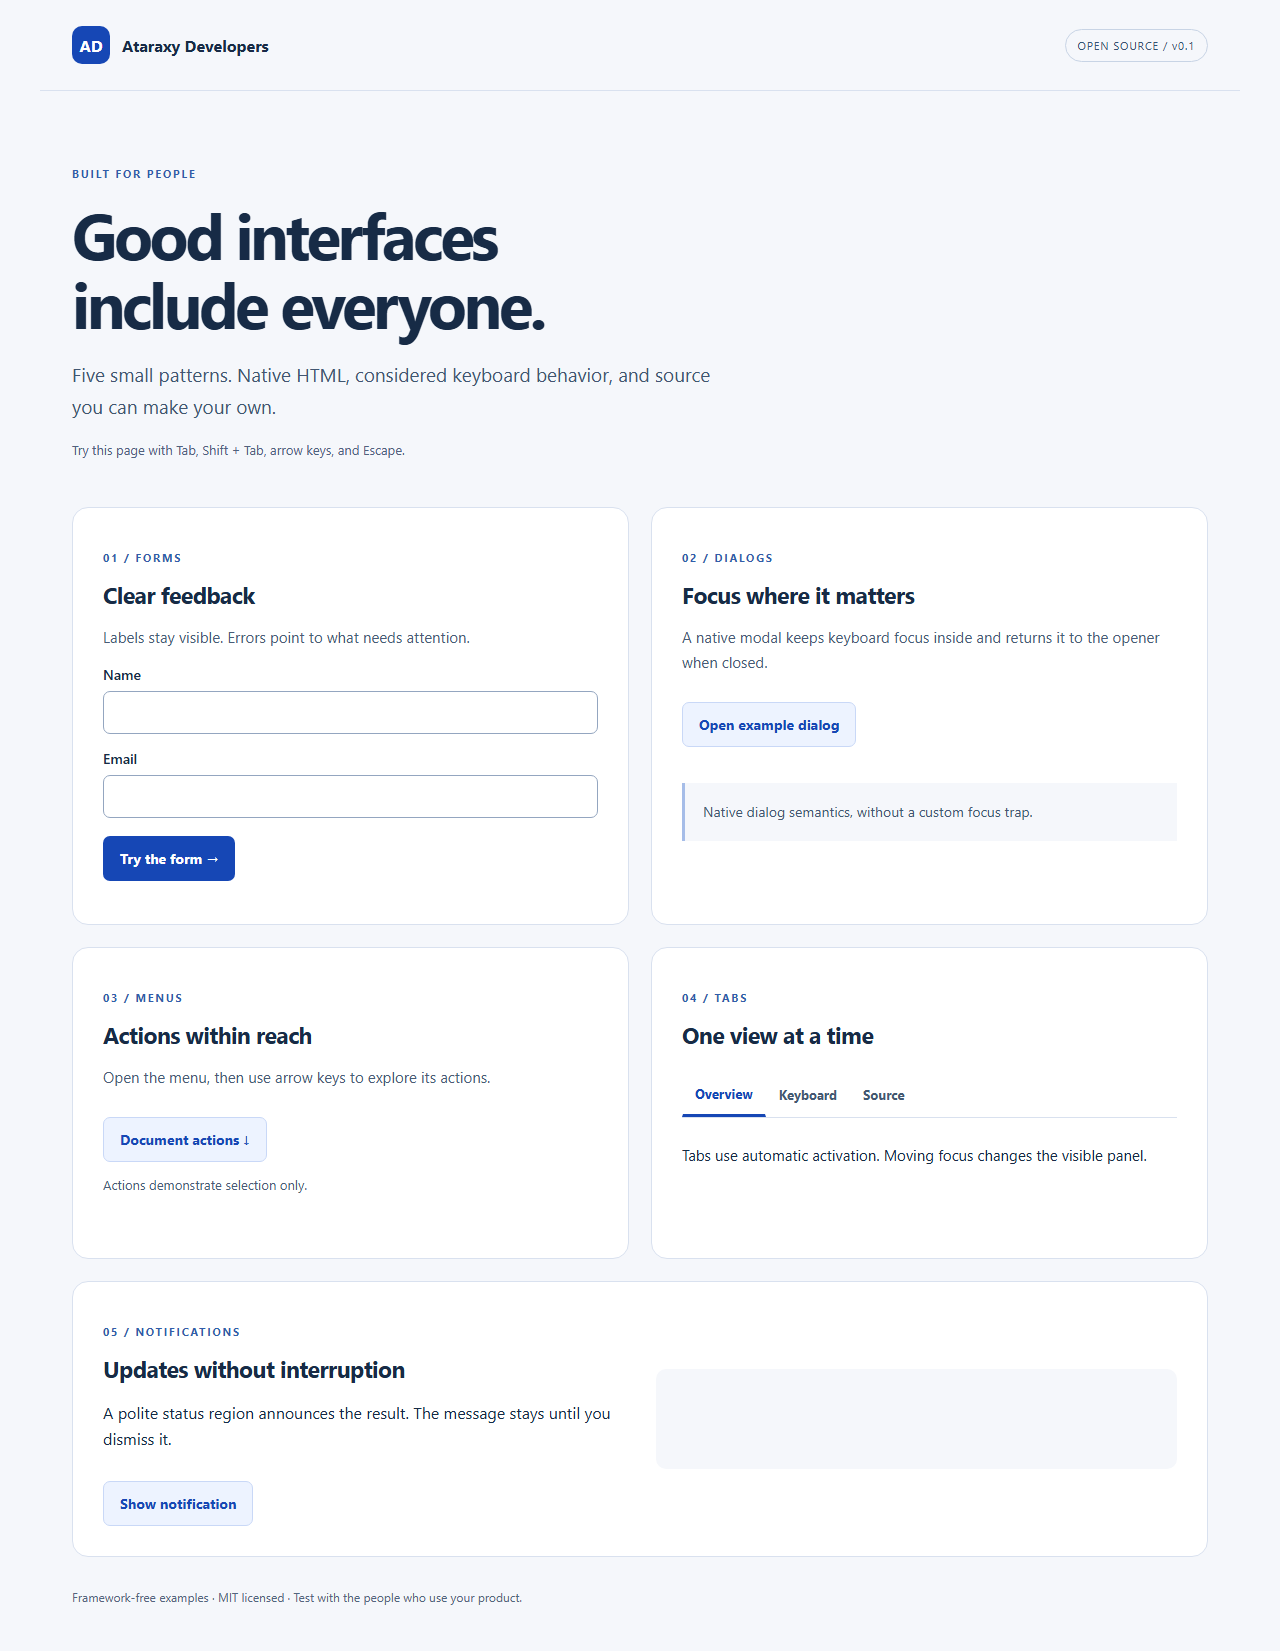
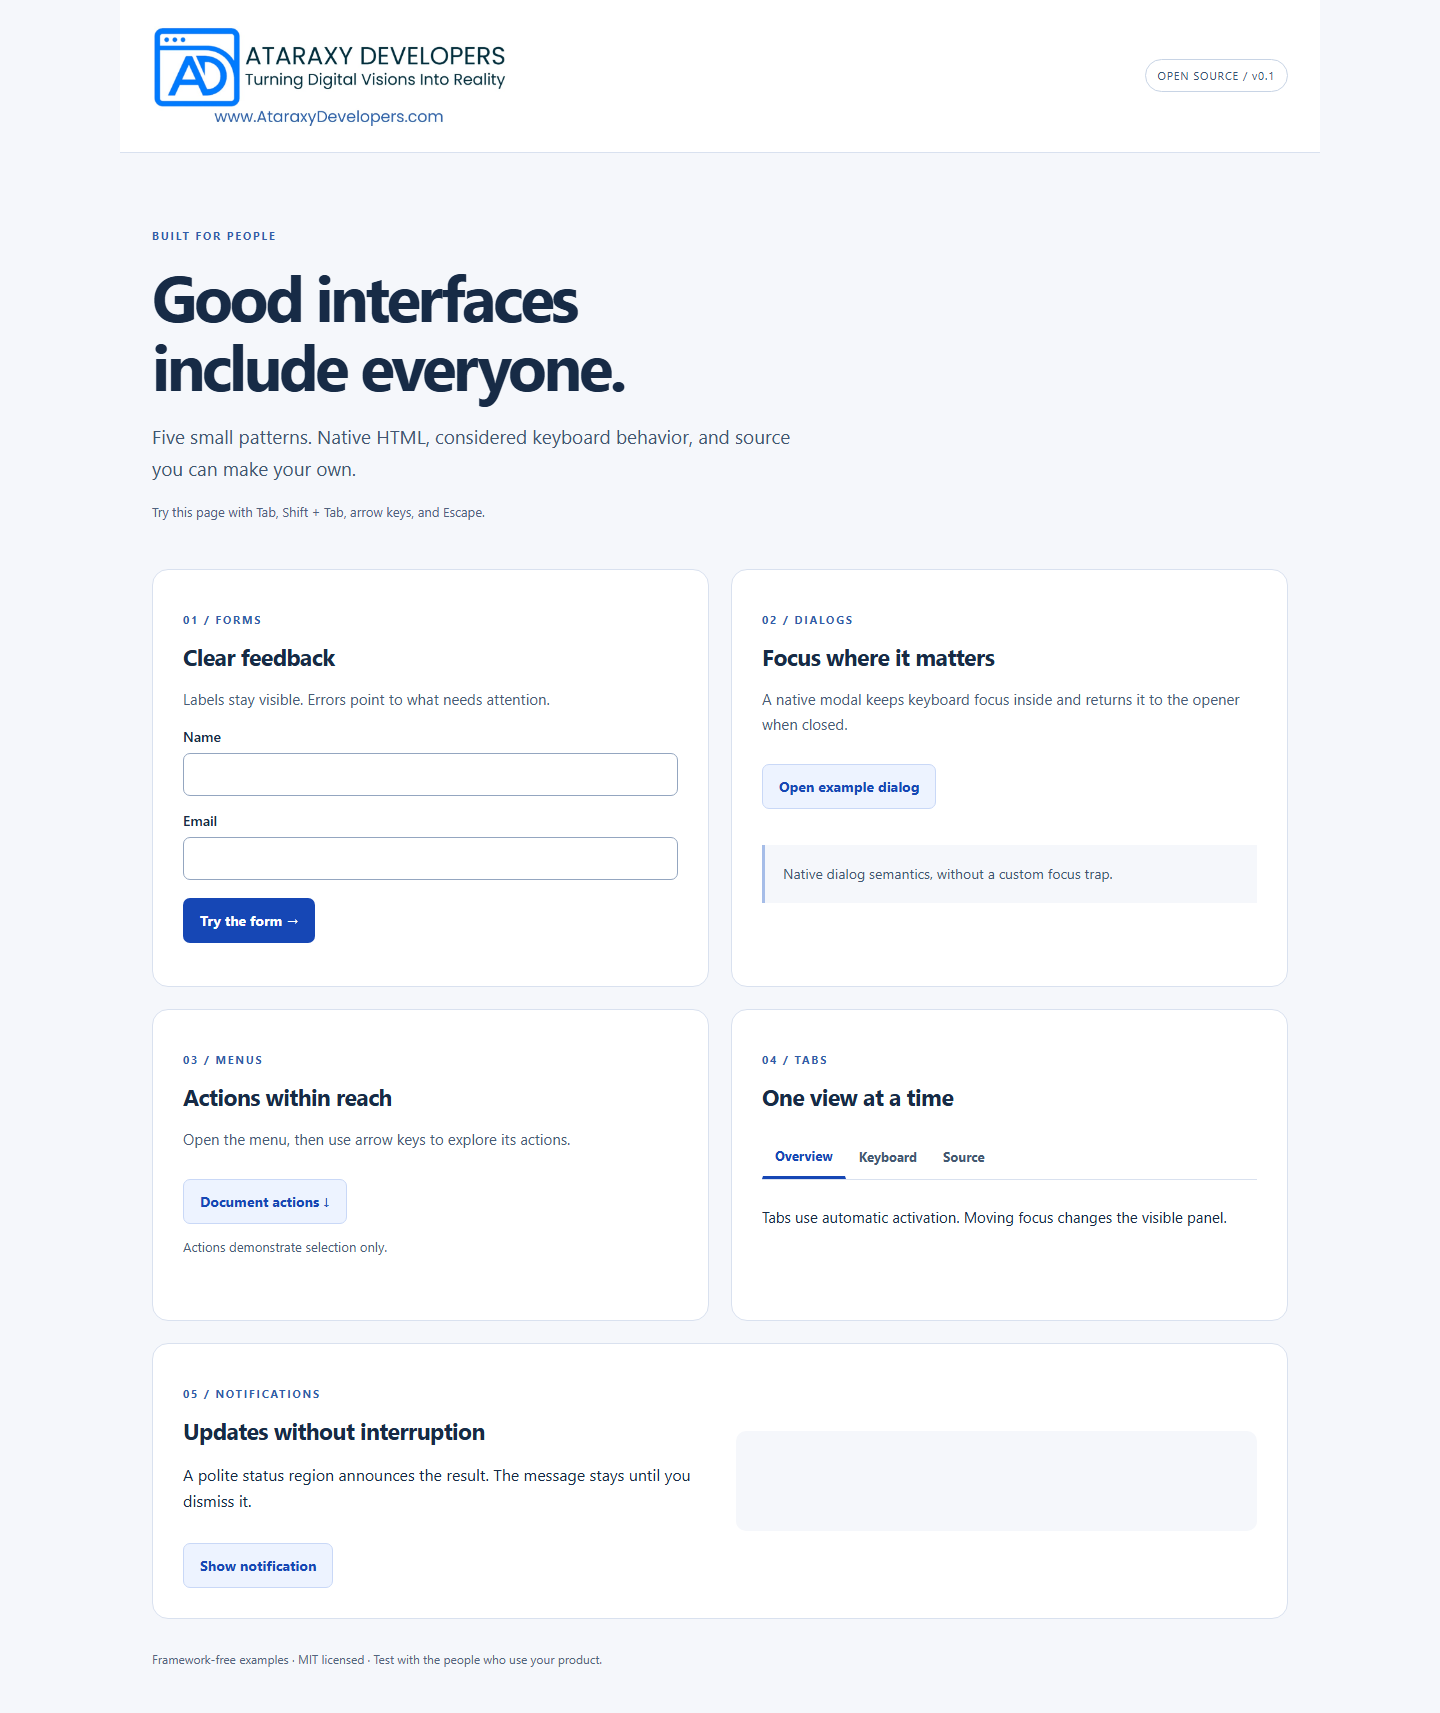
Use approved Ataraxy Developers branding

diff --git a/public/index.html b/public/index.html
@@ -4,14 +4,14 @@
     <meta charset="utf-8" />
     <meta name="viewport" content="width=device-width,initial-scale=1" />
     <title>Accessible UI Recipes · Ataraxy Developers</title>
+    <link rel="icon" href="/ataraxy-developers-logo.png" type="image/png" />
     <link rel="stylesheet" href="/style.css" />
     <script type="module" src="/app.js"></script>
   </head>
   <body>
     <a class="skip" href="#main">Skip to examples</a>
     <header>
-      <a class="brand" href="/"><span class="mark" aria-hidden="true">AD</span>Ataraxy Developers</a
-      ><span class="pill">OPEN SOURCE / v0.1</span>
+      <a class="brand" href="https://ataraxydevelopers.com"><img src="/ataraxy-developers-logo.png" alt="Ataraxy Developers — Turning Digital Visions Into Reality" width="1127" height="313" /></a><span class="pill">OPEN SOURCE / v0.1</span>
     </header>
     <main id="main">
       <section class="intro">

diff --git a/public/style.css b/public/style.css
@@ -27,15 +27,6 @@ header {
   color: inherit;
   text-decoration: none;
 }
-.mark {
-  display: grid;
-  place-items: center;
-  background: #1647b5;
-  color: #fff;
-  width: 38px;
-  height: 38px;
-  border-radius: 10px;
-}
 .pill {
   font-size: 11px;
   letter-spacing: 0.08em;
@@ -284,3 +275,9 @@ footer {
     font-size: 17px;
   }
 }
+
+/* Use the complete, original company artwork without distortion. */
+header { flex-wrap: wrap; gap: 16px; background: #fff; }
+.brand { display: block; flex: 0 1 360px; min-width: 0; max-width: 100%; background: #fff; }
+.brand img { display: block; width: 360px; max-width: 100%; height: auto; }
+@media (max-width: 600px) { header { padding: 18px 20px; } .brand { flex-basis: 360px; } }

diff --git a/BRANDING.md b/BRANDING.md
@@ -1,0 +1,10 @@
+# Ataraxy Developers branding
+
+The company-approved logo is [public/ataraxy-developers-logo.png](public/ataraxy-developers-logo.png). It is the original PNG supplied by Ataraxy Developers on 2026-11-16, unchanged.
+
+- Preserve the complete artwork, its aspect ratio, and its white background.
+- Do not redraw it or substitute typed initials, an invented monogram, or generated artwork.
+- Use readable sizing and descriptive alternative text.
+- Capture screenshots from the working interface after this logo has loaded.
+
+SHA-256: 87ebc5a0092af0fff4524e805730ca3dc97c4483bd49f866528b8cdb97d422e7

diff --git a/CHANGELOG.md b/CHANGELOG.md
@@ -1,5 +1,9 @@
 # Changelog
 
+## 0.1.2 — 2026-11-16
+
+Use the original, approved Ataraxy Developers logo and document its source. Update the interface and browser icon, serve the PNG correctly, and replace the README screenshot with a capture of the corrected app.
+
 ## 0.1.1 — 2026-11-13
 
 Run browser checks on a separate port from the interactive demo, improve startup errors, and remove misleading saved-data wording.

diff --git a/README.md b/README.md
@@ -1,3 +1,5 @@
+<p><a href="https://ataraxydevelopers.com"><img src="public/ataraxy-developers-logo.png" alt="Ataraxy Developers — Turning Digital Visions Into Reality" width="520"></a></p>
+
 # Accessible UI Recipes
 
 [![CI](https://github.com/AtaraxyDevelopers/accessible-ui-recipes/actions/workflows/ci.yml/badge.svg)](https://github.com/AtaraxyDevelopers/accessible-ui-recipes/actions/workflows/ci.yml)
